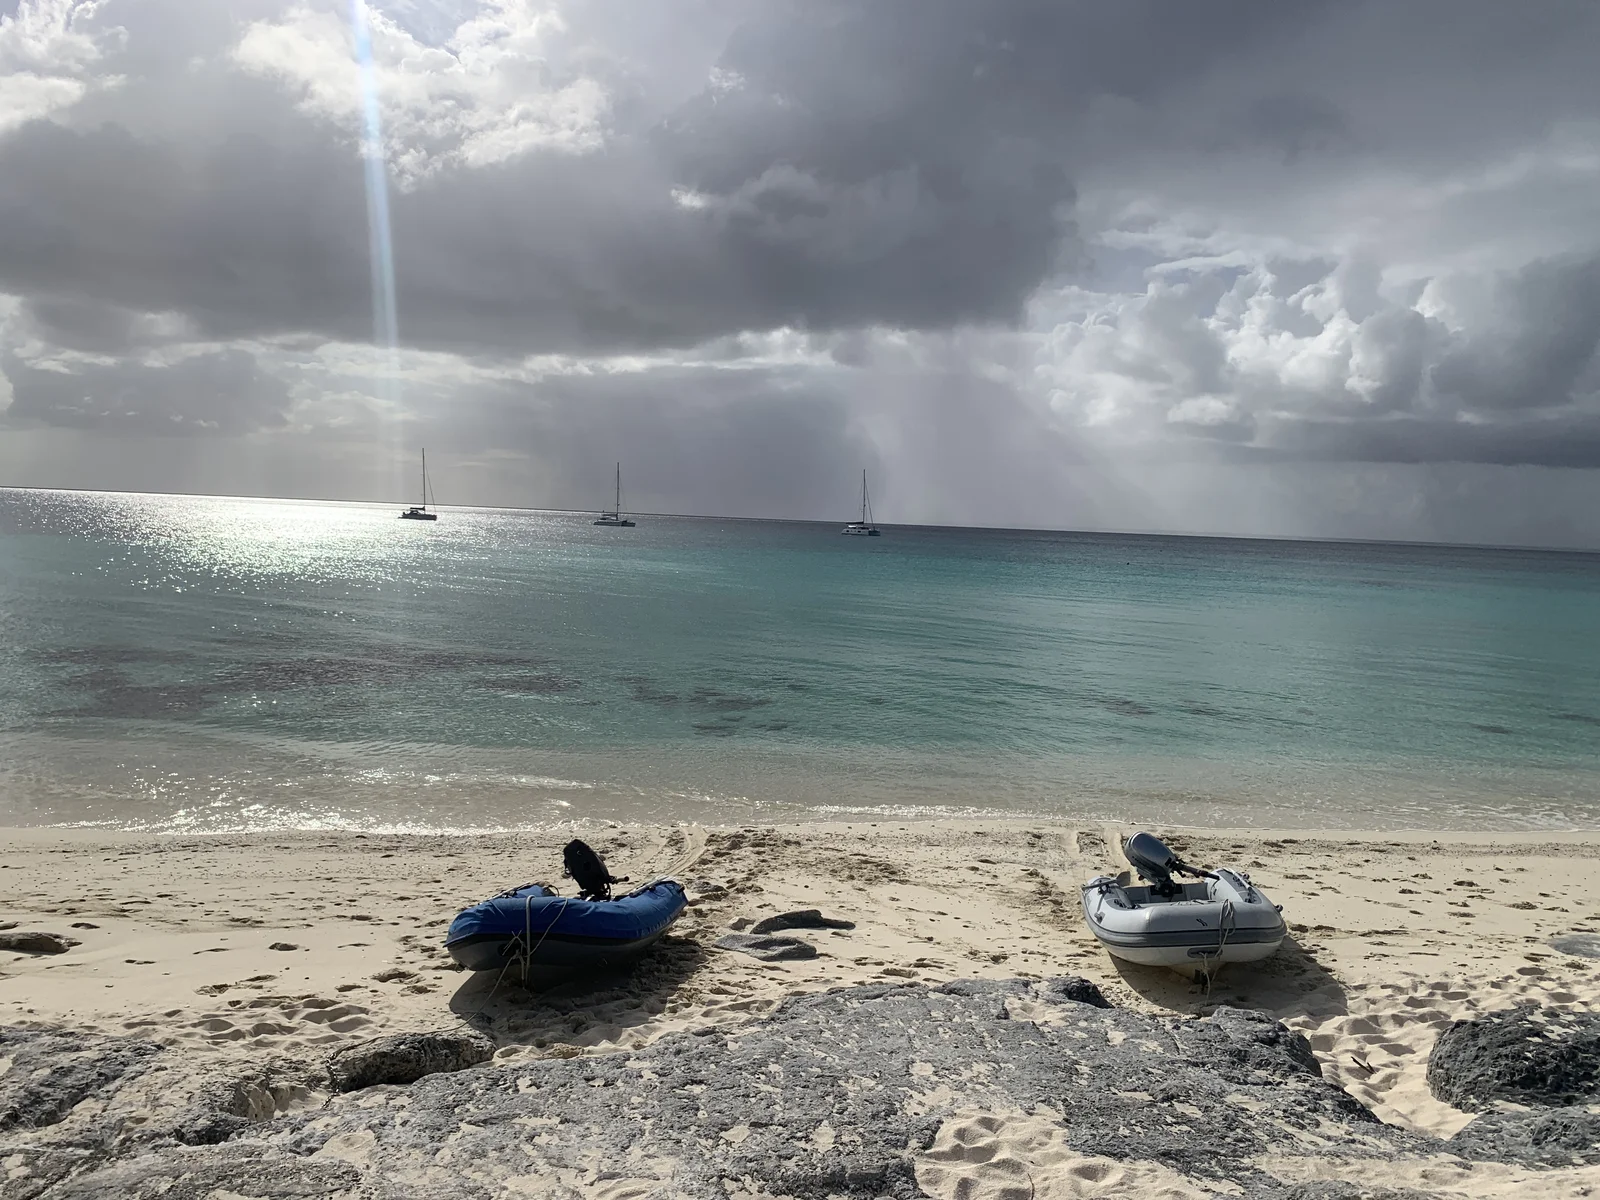
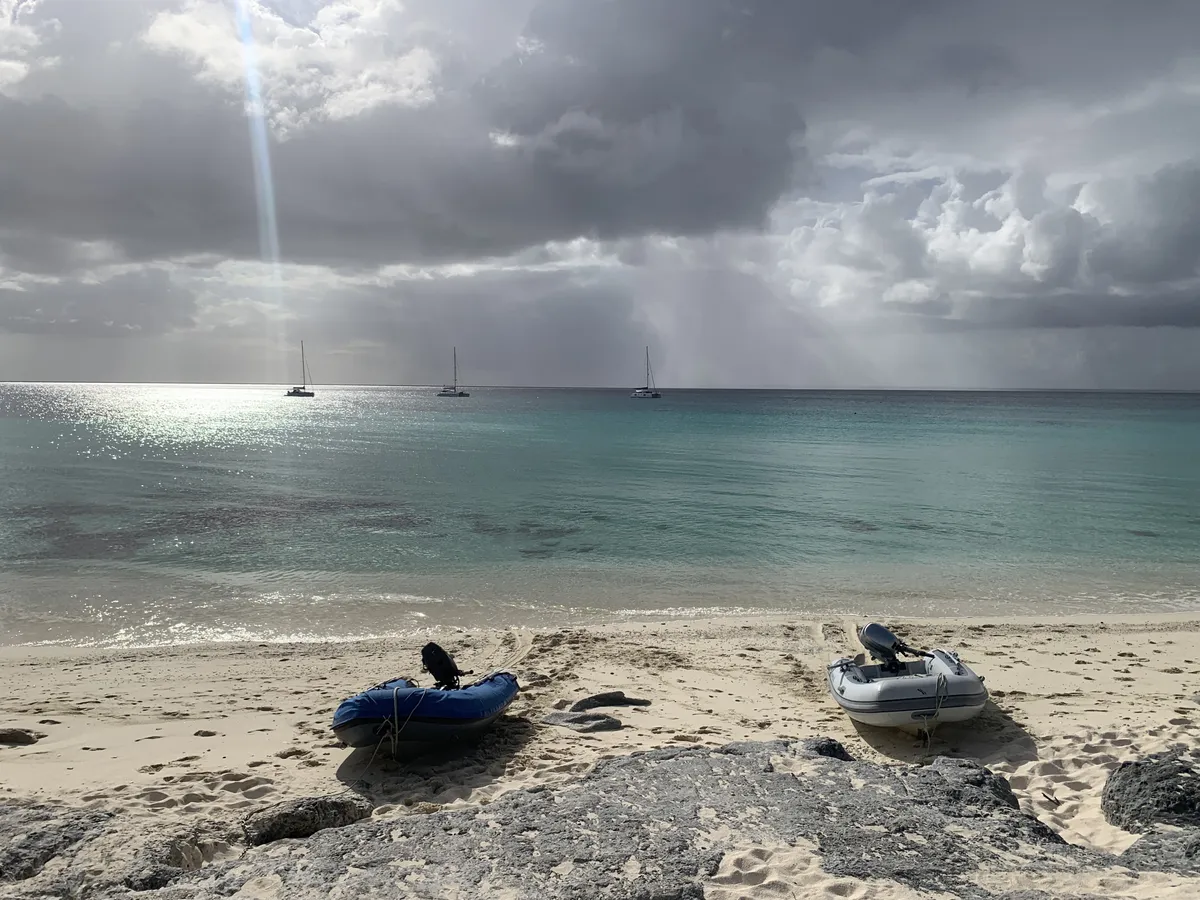
Loyalties post and photos

diff --git a/_posts/2026-07-28-new-caledonias-loyalty-islands.md b/_posts/2026-07-28-new-caledonias-loyalty-islands.md
@@ -1,0 +1,106 @@
+---
+title: "New Caledonia's Loyalty Islands"
+date: 2026-07-28
+layout: post
+author: Sophie Reid
+location: The Loyalty Islands, New Caledonia
+excerpt: "Three weeks in the remote coral islands of Mare, Lifou and Ouvea — learning about doing la coutume with the local chiefs and generally how life works out here whilst enjoying spectacular anchorages, beaches and underwater life."
+header:
+  teaser: "/assets/images/gallery/2026-07/postcard-beach.webp"
+tags:
+  - loc/pacific/new-caledonia/loyalty-islands
+  - subject/anchorages
+  - subject/culture
+---
+
+The Loyalty Islands are a remote collection of islands lying 60 miles off the East coast of New Caledonia. They are made up of three main land masses; two uplifted coral islands (Mare and Lifou) and an atoll (Ouvea). The population is mainly Kanak (local indigenous people) speaking different languages on the different islands. These are places far removed from the French, bustling, modern cosmopolitan city of Noumea.
+
+Land is owned locally by appointed chiefs, from whom permission needs to be sought in order to visit. You must visit the chief upon arrival do la coutume (this is a traditional custom ceremony) by bringing a gift, and in some cases a little money (in reality a small anchoring fee), to pay your respects and ask for consent to visit their land.
+
+## Mare
+
+We set sail on an overnight passage from Prony to Mare, timing the Havannah pass with the high tide slack and the beginning of the ebb (~1930). This meant an early supper and departure from Anse Majic just after dark at 1800. The channel is well lit and easy to navigate, although the 20 knot South Easterly meant a bumpy upwind start! Not wanting to arrive too early (the distance is a short overnight for Zipper) we set off with three reefs as we often seem to do. The inner pass was not eventful, thinking it might be rough we were pleasantly surprised that we must have timed it perfectly. However the outer pass, which on the chart doesn't even really look like a pass (it's plenty deep enough over a sunken reef on either side) was particularly lively - we got hit twice by big waves, and were relieved to finally bear away onto our beam reach for Mare. We then had a beautiful night sail, arriving after sunrise with plenty of light to pick our anchor spot in a nice big sandy patch in the Baie du Nord.
+
+Baie du Nord is stunning, surrounded by cliffs on all sides and lush green trees. The water is beautifully clear with lots of coral bommies, as well as sandy patches to anchor in.  Our friends on Jadamama arrived shortly after us, so we joined forces and took their dinghy ashore to go and find the chief of the local village.
+
+![Cliffs and caves around the anchorage]({{ site.baseurl }}/assets/images/gallery/2026-06/baie-du-nord.webp)
+![Pondering how to secure the dinghy in Mare]({{ site.baseurl }}/assets/images/gallery/2026-06/working-out-how-to-secure-the-dinghy.webp)
+
+We had spotted a very steep ramp where a previous cruiser had suggested you could tie the dinghy up; on arrival at said ramp we realised it was far too steep to try to land the dinghy on, as well as being surrounded by coral, so the best option was to land everyone on the ramp and tie on to metal rings that had been put in the rocks, with a stern anchor to keep the dinghy in place. With all crew safely ashore and the dinghy secured we headed off to find the village. It was a beautiful walk along a lush green road with lots of big butterflies fluttering around. We were greeted at the first house we came to by a very welcoming man and his daughter. It turned out that he was the chief (Charles), so we made our coutume and he welcomed us very warmly, telling us about the big market going on further in town and inviting us back for tea at his house later.
+
+We continued on and after 10 minutes or so came upon the (relatively small) market and were met by Robert who was selling brochettes (chicken kebabs) and took it upon himself to look after us and show us around. The market was a wonderful local affair where we stocked up on the limited fruit and veg in between the rounds of bingo that we have discovered are an essential part of local markets in the Loyalties. You can only buy things in between rounds as the ladies are far too absorbed in the game to trade while playing. We also had lunch at the 'restaurant' which was a choice of chicken, fish or egg, accompanied by the most delicious salads. After a wonderful couple of hours ashore with the locals, we returned to the boats and whilst the children played off Jadamama, we headed for a snorkel.
+
+![Angus making friends through thumb wars]({{ site.baseurl }}/assets/images/gallery/2026-06/making-friends-outside-the-local-market.webp)
+
+The coral in Baie du Nord was astonishingly good and varied and there were lots of caves and passages to swim between. Plenty of small fish around and to our delight we spotted an octopus, but no big fish. As we got out of the water at the end of day, Jamie spotted a manta ray just off our boat, an opportunity we couldn't miss, so we slipped back in and were graced with the most chilled out and curious manta swimming straight at us. It didn't hang around for long, but it was a privilege as always to spend time with these incredible creatures. We spent the following morning doing a bit more snorkelling and then headed to a different bay hoping for bigger fish and maybe more mantas?
+
+![Spectacular coral]({{ site.baseurl }}/assets/images/gallery/2026-06/amazing-variety-of-corals-on-the-north-coast-of-ma.webp)
+---
+![Octopus not shy as we all scrutinised it]({{ site.baseurl }}/assets/images/gallery/2026-06/octopus-not-fussed-by-our-fascination.webp)
+![Big anemonies full of clown fish]({{ site.baseurl }}/assets/images/gallery/2026-06/clown-fish-hiding-in-the-anemomies.webp)
+
+The holding in the next bay was questionable at best, but we managed to get a semi decent hold. Kotare, another kid boat we made friends with in NZ also showed up and the following day we trekked through the forest to the other side of Mare. It was a fascinating walk and we came across an abandoned house and an old copra site (where they harvest and process the coconuts, maybe the two were linked?) before coming out onto the beach. It would have been beautiful were it not absolutely littered with plastic, it was such sad sight and so disappointing to see; we have never seen so much plastic on a beach and we couldn't quite work out how it had all ended up there, or where it's come from. But, there was also an abundance of nautilus shells and we found more than enough for everyone to take one home. After a night in this anchorage, we all decided to head back to the other side, which had been great holding and perfectly flat. It was now slightly rolly, which we couldn't quite work out, but still stunningly beautiful. So after another night we decided to head on to the next island in the chain - Lifou.
+
+![Remnants of a copra harvesting site]({{ site.baseurl }}/assets/images/gallery/2026-06/walking-through-to-the-west-side-of-cape-roussin.webp)
+![Plastic strewn beach on the East of Mare]({{ site.baseurl }}/assets/images/gallery/2026-06/plastic-strewn-beach.webp)
+
+## Lifou
+
+We left Baie du Nord at 3am and headed to Druelu, Lifou which ended with a windy upwind sail into the anchorage, but with the end in sight we were all alright with it. Anchor down in time for lunch and then it was time to go and find the chief and do la coutume.
+
+Druelu is another beautiful anchorage with a sandy beach landing next to a ramp and the village immediately on the shore. At the top of the ramp we found a board informing us of the expected process for visiting yachts, it's not something we've come across before, but it made it clear what the expectations were and even showed the area we could anchor in. Having read the information we set off to find Pierre (who was not the chief but was in charge of anchoring fees) to pay our fee, he was away but we met his sister-in-law who told us to come back tomorrow morning to see him and in the meantime she showed us the building where the weddings took place and talked a bit about the village. We also got to see some of the traditional roundhouses they sleep in. We then set off to find the chief, who was also not home, but we met his wife Lilian, who was wonderful, and as it happens,  she carries out all the transactions and conversations anyway.
+
+![Drueulu anchorage and beach landing]({{ site.baseurl }}/assets/images/gallery/2026-07/anchorage-at-drueulu-on-lifou-island.webp)
+---
+![Sunset in the Drueulu anchorage]({{ site.baseurl }}/assets/images/gallery/2026-07/another-spectacular-sunset.webp)
+![Traditional coconut thatch round house, a symbol of status]({{ site.baseurl }}/assets/images/gallery/2026-07/traditional-house.webp)
+
+The following morning was market day in We, the town on the other side of the island - a 20 minute drive away. With no other option we decided to try our luck hitching a lift. We set off at 7.30 with Jadamama, with nine of us trying to hitch a lift, we decided that we'd just have to pile as many people in to whatever vehicles stopped for us. Slightly concerned about how long the adventure of hitch hiking whilst walking along the side of the road would entertain the children, we set off. We got incredibly lucky…the first car that passed us stopped, and it turned out to be a pick up truck, much to the children's delight. We all piled into the back and headed to We, the parents thankful for such incredible fortune, the kids thinking this was how it always worked!
+
+![Hitch hiking across Lifou to the market in We]({{ site.baseurl }}/assets/images/gallery/2026-07/9-of-us-hitchhiking-into-town-all-in-the-back-of-a.webp)
+![The market in We]({{ site.baseurl }}/assets/images/gallery/2026-07/market-day-in-we-1.webp)
+
+There was a slight miscommunication and we ended up being dropped off at the supermarket rather than the market, but we managed to find the market in the end. It was definitely bigger than the Mare market we'd been to, but we still had to wait for the rounds of bingo to be completed! Fresh fruit and veg secured again, we headed back to the boat. It took slightly longer to hitch a lift home, but we were dropped right to the ramp which made life much easier with our shopping. We also managed to find Pierre and had a good conversation with him about the football world cup. Football is most definitely a universal language!
+
+Knowing we were going to be here for a couple of days, we got the mini cat out for the children and did some sailing. The children sailed to a beach for a day out, it was a tough upwind leg coming home, but they were having a ball and living their best Swallows and Amazons life.
+
+![More high quality coral on a bommie]({{ site.baseurl }}/assets/images/gallery/2026-07/shallow-bommie-with-spectacular-variety-of-corals.webp)
+---
+![Hang tough, water sports on Jadamama]({{ site.baseurl }}/assets/images/gallery/2026-07/hang-tough.webp)
+![The kids sailing the mini cat around the anchorage]({{ site.baseurl }}/assets/images/gallery/2026-07/sailing-around-the-anchorage.webp)
+
+## Ouvea
+
+After five nights in Druelu we sailed the 50Nm to Ouvea. It was a shifty passage with no wind, lots of wind, reaching, dead up wind, sunshine, rain, a bit of everything really. We were pleased to make it into the atoll, and catch a fish on the way through! Ouvea was gorgeous, exactly what we expected from an atoll, and much more. The white sandy beach in the south corner of the island stretched for miles and the palm trees dotted the shoreline. Anchoring in a big sandy patch was easy and then we headed into the village to find the chief, who was out, but we were told he would be home tomorrow; it seems to be a recurring theme.
+
+We returned the next day and were able to do la coutume with the chief who gave us permission to snorkel in the passes and to go to the outlying islands in the south. We had really hoped we might be able to snorkel in the pass but had read mixed reports on whether this was allowed, but the chief could not have been friendlier and made it clear we were welcome.
+
+With this in mind we put together a dinghy trip with Emotion, Jadamama and Kotare and headed for the main pass. The snorkelling surpassed our expectations and was some of the best we have had; there were lots of big, healthy, colourful corals and plenty of reef fish. We found lots of different passes with coral, reef sharks, fish and even a big eagle ray (and Liz swears she saw a manta ray!). With everyone beginning to get chilly we headed to an uninhabited island for a bonfire and marshmallows, before making the rough two mile trip upwind back to the boats. We've been having trouble with our outboard stalling from what seems to be a fuel feed issue, but as long as we continually pump the fuel bulb it seems to keep running - so, keep pumping, keep calm, and carry on...!
+
+![One of many inquisitive white tip reef sharks]({{ site.baseurl }}/assets/images/gallery/2026-07/inquisitive-white-tip.webp)
+---
+![Brightly coloured giant clams]({{ site.baseurl }}/assets/images/gallery/2026-07/blue-clam.webp)
+![Clouds of fish in the Ouvea pass]({{ site.baseurl }}/assets/images/gallery/2026-07/clouds-of-fish.webp)
+
+The following day we all had a delicious lunch at Olivia's restaurant on the beach. There are three shacks along the beach front of the village and each is a restaurant. Olivia's was recommended to us by fellow cruisers, but feedback from those who went to the others suggest they are also good. We had a fabulous meal of either chicken or fish with rice, yam and a delicious green papaya salad (nuggets and fries for the children). It happened to be Matariki (Maori New Year) and we were able to arrange a bonfire on the beach for that evening with everyone contributing various dishes; Maori fry bread from Kotare was a big hit! Dave from Kotare is an excellent musician and we were able to have some songs around the fire and shared the evening with Olivia and her family who were delightful. Jamie even got himself a Kanaky shirt.
+
+![Preparing for Matariki in Ouvea]({{ site.baseurl }}/assets/images/gallery/2026-07/matariki-celebration.webp)
+![Jamie gifted a Kanaky shirt]({{ site.baseurl }}/assets/images/gallery/2026-07/kanaky-shirt.webp)
+
+After a great night in Mouli we headed north to explore further as a group of four kid boats. After a brief stop in Fayaoue, the main town in Ouvea, to pick up some provisions, we headed to Heo (St Joseph) in the north. Anchoring here was a bit precarious with a thin layer of sand over rock, but we managed to get a decent enough hold. We went ashore to do la coutume but due to some confusion we made la coutume with someone who wasn't actually the chief (Frankie, the guy who met us on the beach with a machete, so we did rather feel like doing what he suggested). He was outright hostile to start with making it clear we were not welcome, but after some perserverence in our fragile French we slowly brought him round to allowing us to stay. We think the turning point was when he realised he was going to get something out of us and that we were here to make la coutume. Upon speaking to a lovely lady called Marcelle in the church and then walking to see the Grande Chief (who it turns out doesn't have any involvement with the bay or running of Heo), we were told we had done the right thing trying to do la coutume and we were indeed welcome to stay in the north. We found out that the real chief had recently died, and his replacement is old and unwell, so there really was no clear procedure when we arrived. This guy calling himself Frankie was clearly making the most of that for himself!
+
+We then rushed over to find a better anchorage for the night, much later in the day than planned due to the coutume debacle ashore. With the sun quickly dropping in the sky and clouds beginning to form overhead we tried to navigate the shallow waters littered with bommies. When the two leading boats nearly hit bommies due to the poor visibility, we all abruptly put down our anchors and got a good hold for the night.
+
+In the morning it was a beach day for the kids and tag team snorkelling in the north pass for the adults. The girls made a hermit crab castle and the boys buried themselves up to their necks and all had an absolute blast. As is the way with these things, the wind got up and the second team were happy not to battle out into the pass, but to explore a more sheltered inlet instead.
+
+![Postcard perfect tropical beach]({{ site.baseurl }}/assets/images/gallery/2026-07/postcard-beach.webp)
+![Games on the beach, Angus buried]({{ site.baseurl }}/assets/images/gallery/2026-07/beach-burial.webp)
+
+On the way in, two fishermen waved us over; thinking they were going to tell us we couldn't be there, we headed over, only to discover they wanted to know what the weather forecast was and whether they should stay out to fish or return to the village. They also told us the other side of the inlet was tabu and we were not allowed there. This is after a hostage situation in 1988 where many people lost their lives on the island.
+
+The weather then turned on us and we had to return to the south without having the time we were hoping for to properly explore the north. On our return, we anchored near Mouli bridge, enjoying more beach sports and another bonfire and marshmallows. Much to everyone's disappointment, it was then time to take the weather window back to Noumea. It wasn't a perfect window, still a bit upwind and not very long, but enough to get back to Grande Terre, and the seas were small.
+
+> There is never enough time to see everything.
+
+We encountered so many wonderful people in The Loyalty Islands; they have been overwhelmingly welcoming and friendly (other than "Frankie"!). Since Covid and the riots, many tourists have not returned and they were delighted to see cruising yachts again after many years without them. We loved our time in these outer islands of New Caledonia and were sad not to have longer to explore. It was hard to sail back to the main island knowing there was so much more to see and do, but that is always the way, there is never enough time to see everything and the weather dictates where we go and when.
+
